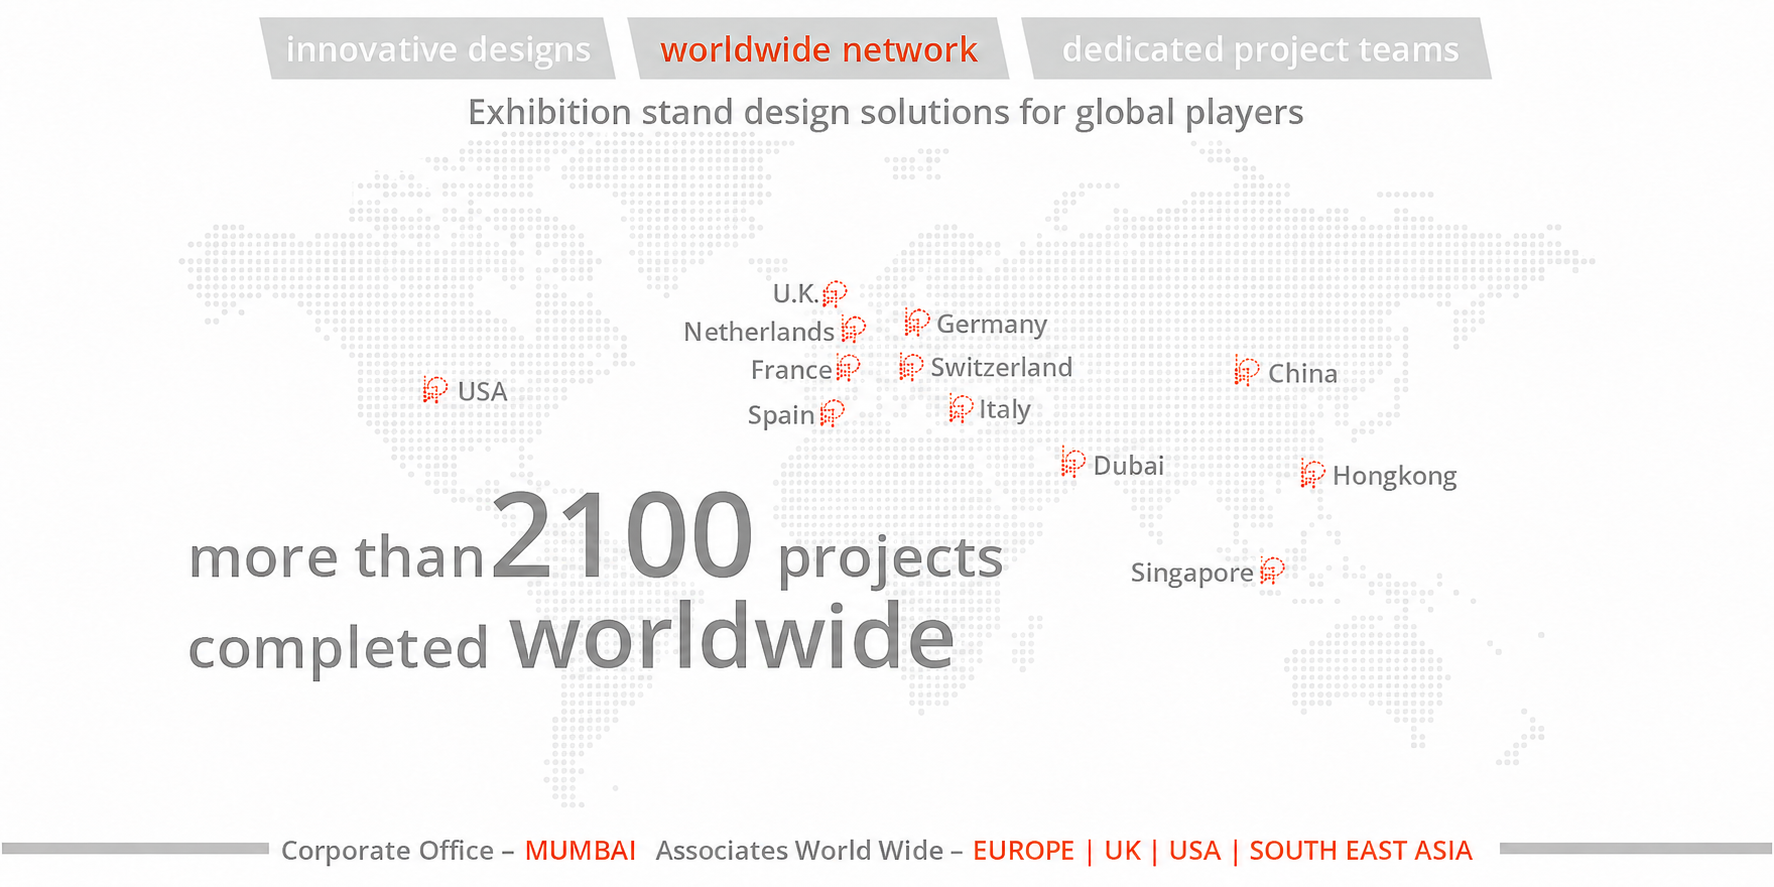
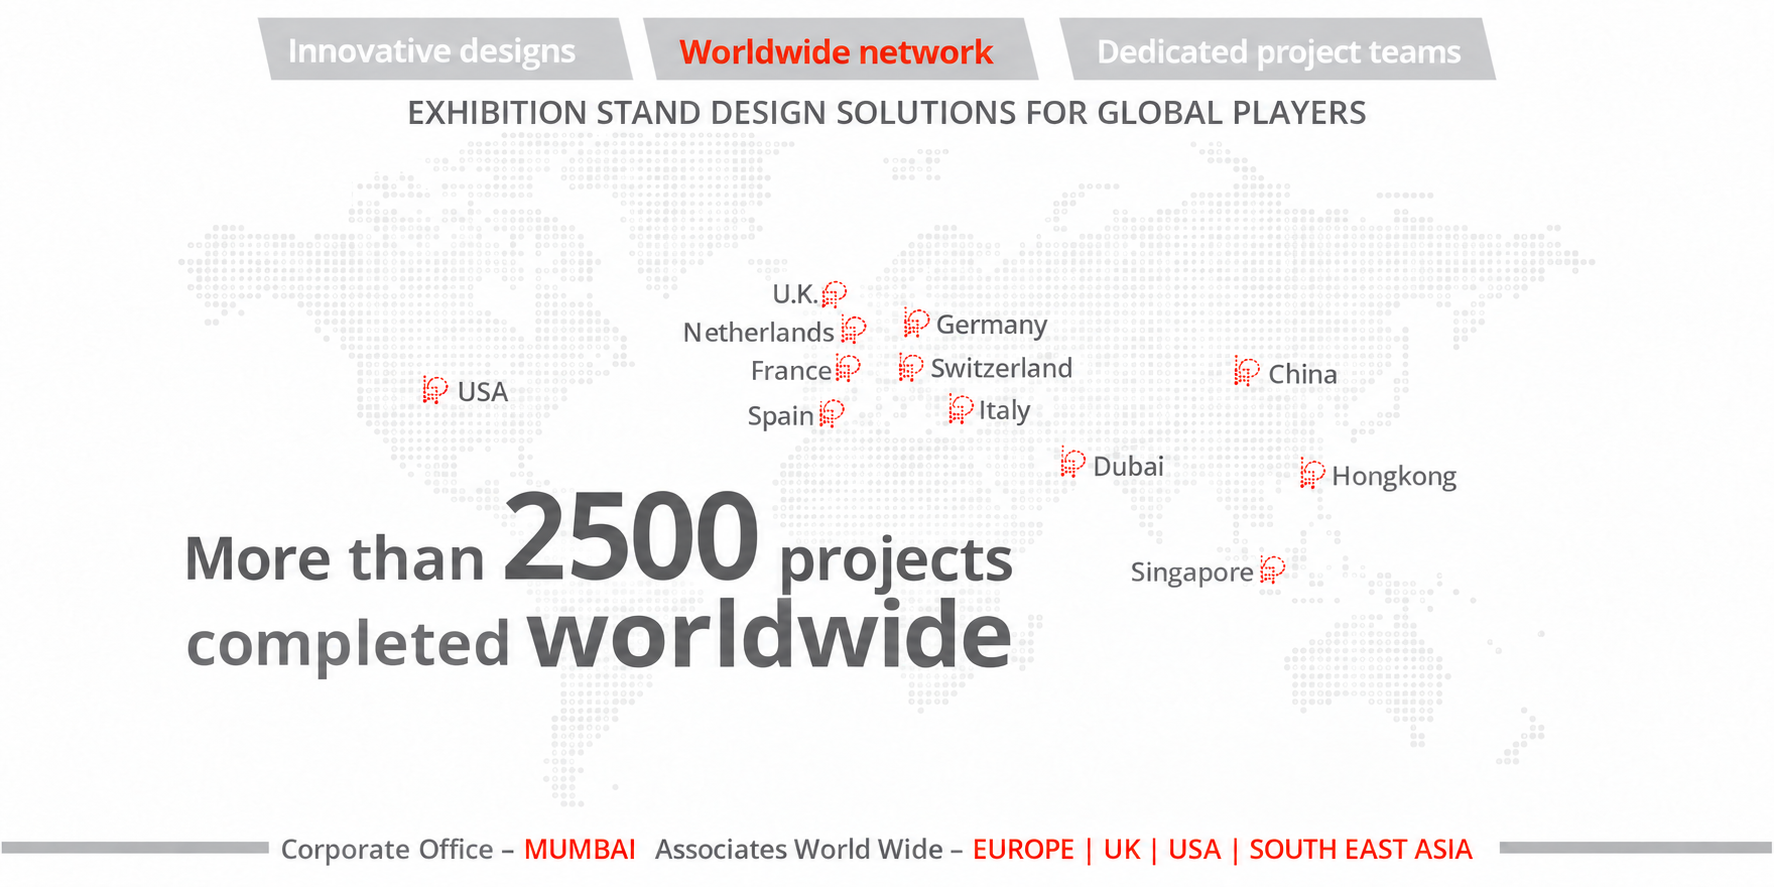
live ke baad changes

diff --git a/style.css b/style.css
@@ -2831,7 +2831,7 @@ Tags:          event, conference, marketing, business
 .lp-industry-content h3 {
   min-height: 58px;
   margin: 0;
-  color: #141414;
+  color: var(--lp-orange);
   font-size: 19px;
   font-weight: 700;
   line-height: 1.3;
@@ -5577,9 +5577,12 @@ Tags:          event, conference, marketing, business
 .lp-footprint-events h4,
 .lp-footprint-glance-content h3,
 .lp-footprint-tabs .tab-btn,
-.lp-industries-promise,
-.lp-industry-content h3 {
+.lp-industries-promise {
   color: #686b72;
+}
+
+.lp-industry-content h3 {
+  color: var(--lp-orange);
 }
 
 /* About page headings and card titles use the same gray tone. */

diff --git a/js/script.js b/js/script.js
@@ -640,8 +640,9 @@
 
 
 
-	if($('.circle-follow').length){		
-		// Mouse Circle Animation 
+	/*
+	if($('.circle-follow').length){
+		// Mouse Circle Animation disabled: using normal browser cursor.
 		var $circle = $('.circle'),
 		$follow = $('.circle-follow');
 		function moveCircle(e) {
@@ -675,6 +676,7 @@
 		$(window).on('mousemove', moveCircle);
 		$("a, .clink").hover(hoverFunc, unhoverFunc);
 	}
+	*/
 
 	// Elements Animation
 	if($('.wow').length){

diff --git a/css/master.css b/css/master.css
@@ -2462,6 +2462,7 @@ Scroll To Top style
   transition: all 400ms linear;
 }
 
+/* Custom mouse cursor disabled: using normal browser cursor.
 .circle {
   position: fixed;
   width: 10px;
@@ -2513,6 +2514,7 @@ Scroll To Top style
     display: none !important;
   }
 }
+*/
 
 /***====================================================================
   Search Popup

diff --git a/about.php b/about.php
@@ -33,8 +33,8 @@
                     <!-- <p>Exhibitions offer no second chances. There is no dress rehearsal and no opening-night retake. Since the year 2000, Link Promotions and Exhibits has built its reputation the hard way: one flawless, deadline-driven build at a time.</p>
                     <p>Whether it is a modular unit or a double-height custom pavilion, our process has proven itself consistently - from Mumbai to Frankfurt, Dubai to Barcelona, and every major exhibition hub in between.</p>
                     <p>Because design and fabrication both happen in-house, our clients benefit from fewer handoffs, fewer surprises, and one accountable partner guiding every project from the first sketch through to final teardown.</p> -->
-                    <p>Since 2000, Link Promotions and Exhibits Worldwide has been creating exhibition experiences that make brands stand out. With 21+ years of expertise, we combine innovative design, precision fabrication, and seamless execution to deliver impactful exhibition spaces that attract attention, engage audiences, and elevate brand presence.</p>
-                    <p>Every project reflects our commitment to quality, creativity, and on-time execution from concept to completion.</p>
+                    <p>Since 2000, Link Promotions and Exhibits Worldwide has been creating exhibition experiences that help brands stand out. With 21+ years of expertise, we combine innovative design, precision fabrication, and seamless execution to deliver impactful exhibition spaces that attract attention, engage audiences, and elevate brand presence.</p>
+                    <p>Every project reflects our commitment to quality, creativity, and on-time execution, from concept to completion.</p>
                     <p>Whether it is a modular unit or a double-height custom pavilion, our process has proven itself consistently from Mumbai to Frankfurt, Dubai to Barcelona, and every major exhibition hub in between.</p>
                     <p>Because design and fabrication both happen in-house, our clients benefit from fewer handoffs, fewer surprises, and one accountable partner guiding every project from the first sketch through to final teardown.</p>
                     <div class="lp-about-page-stats">
@@ -43,7 +43,7 @@
                             <span>Years in Exhibition Design &amp; Fabrication</span>
                         </div>
                         <div class="count-box">
-                            <strong><span class="count-text" data-stop="2100" data-speed="1900" data-suffix="+" data-format="comma">0</span></strong>
+                            <strong><span class="count-text" data-stop="2500" data-speed="1900" data-suffix="+" data-format="comma">0</span></strong>
                             <span>Stalls Designed and Executed</span>
                         </div>
                         <div class="count-box">
@@ -64,13 +64,13 @@
                 <div class="lp-about-story-intro">
                     <h2>We Build Your Space, You Build Your Business.</h2>
                     <figure class="lp-about-story-video">
-                        <video src="images/myimage/video/about-video.mp4" controls muted loop playsinline preload="metadata"></video>
+                        <video src="images/myimage/video/about-video.mp4" controls muted playsinline preload="metadata"></video>
                     </figure>
                 </div>
                 <div class="lp-about-story-text">
-                    <p>Every exhibition is a brief but critical window to convince the people who matter most - buyers, distributors and investors - that your brand deserves their attention. Link Promotions and Exhibits exists to make sure that moment works decisively in your favour.</p>
+                    <p>Every exhibition is a brief but critical window to convince the people who matter most - buyers, distributors, and investors - that your brand deserves their attention. Link Promotions and Exhibits exists to make sure that moment works decisively in your favour.</p>
                     <p>Link Promotions and Exhibits has designed and fabricated exhibition stalls for both B2B and B2C brands across pharmaceuticals, engineering, chemicals, FMCG, jewellery, textiles, manufacturing, construction, food and beverage, electronics, automation, renewable energy, packaging, healthcare, logistics and supply chain industries.</p>
-                    <p>What has remained constant across more than two decades is our process: we begin by understanding exactly what you need to prove at that specific show, then design backward from that objective - shaping layout, materials, lighting, signage and visitor flow around your goals, not around a template.</p>
+                    <p>What has remained constant across more than two decades is our process: we begin by understanding exactly what you need to prove at that specific show, then design backward from that objective - shaping layout, materials, lighting, signage, and visitor flow around your goals, not around a template.</p>
                 </div>
             </div>
         </div>
@@ -89,12 +89,12 @@
                 <article class="lp-about-highlight-card">
                     <i class="fa fa-flag"></i>
                     <h3>Inception</h3>
-                    <p>Millennium year 2000. With a dynamic vision to serve through custom build exhibition stands and events and launches, Link Promotions and Exhibits has built a proven record as one of the strongest players in this industry for over two decades.</p>
+                    <p>Founded in 2000, Link Promotions and Exhibits began with a dynamic vision to serve brands through custom-built exhibition stands, events, and launches. Over the past two decades, we have built a proven record as one of the strongest players in the industry.</p>
                 </article>
                 <article class="lp-about-highlight-card">
                     <i class="fa fa-pencil-ruler"></i>
                     <h3>Creation</h3>
-                    <p>An in-house design studio with a core creative team, skilled supervisors and thorough technical guidance ensures every stand is designed for greater visitor visibility and strong brand presence.</p>
+                    <p>Our in-house design studio, supported by a core creative team, skilled supervisors, and thorough technical guidance, ensures every stand is designed for greater visitor visibility and strong brand presence.</p>
                 </article>
                 <article class="lp-about-highlight-card">
                     <i class="fa fa-industry"></i>
@@ -114,7 +114,7 @@
                 <article class="lp-about-highlight-card">
                     <i class="fa fa-globe-asia"></i>
                     <h3>Cultivation</h3>
-                    <p>A cultivated team - a true amalgamation of experience and technology - works to promote clients' brands and products worldwide across trade show platforms.</p>
+                    <p>Our cultivated team - a true amalgamation of experience and technology - works to promote clients' brands and products worldwide across trade show platforms.</p>
                 </article>
             </div>
 
@@ -134,7 +134,7 @@
                 <article>
                     <span>Our Mission</span>
                     <h3>Free Clients to Focus on Growth.</h3>
-                    <p>Our mission is to empower clients with strong online and offline marketing strategies and execute them well. Whether on-ground exhibition stands or virtual experiences, our goal is to make this activity easier for clients so they can focus on their path to success.</p>
+	                    <p>Our mission is to empower clients with strong online and offline marketing strategies and execute them effectively. Whether through on-ground exhibition stands or virtual experiences, our goal is to make this process easier for clients so they can focus on their path to success.</p>
                 </article>
                 <article>
                     <span>Our Vision</span>

diff --git a/clients.php b/clients.php
@@ -4,6 +4,34 @@
 $clientLogoFiles = glob('images/myimage/client-logo/*.{jpg,jpeg,png,webp,gif,svg}', GLOB_BRACE);
 
 sort($clientLogoFiles, SORT_NATURAL | SORT_FLAG_CASE);
+
+$featuredClientOrder = [
+    '13_Adobe',
+    '14_HP',
+    '08_Swarovski_Gemstones',
+    '06_Midea',
+    '20_SANY',
+    '03_FORBES',
+    '09_DYMO',
+    '12_Titan_Laboratories',
+    '05_BARNES_Molding_Solutions',
+    '04_Bliss_GVS',
+];
+
+$featuredClientOrder = array_flip($featuredClientOrder);
+
+usort($clientLogoFiles, function ($firstLogo, $secondLogo) use ($featuredClientOrder) {
+    $firstName = pathinfo($firstLogo, PATHINFO_FILENAME);
+    $secondName = pathinfo($secondLogo, PATHINFO_FILENAME);
+    $firstRank = $featuredClientOrder[$firstName] ?? PHP_INT_MAX;
+    $secondRank = $featuredClientOrder[$secondName] ?? PHP_INT_MAX;
+
+    if ($firstRank === $secondRank) {
+        return strnatcasecmp($firstLogo, $secondLogo);
+    }
+
+    return $firstRank <=> $secondRank;
+});
 ?>
 
     <!-- Page Title -->

diff --git a/foter.php b/foter.php
@@ -72,7 +72,10 @@
                     <li>Exhibition Stand Design</li>
                     <li>Exhibition Booth Design</li>
                     <li>Mezzanine Stall Designer</li>
-                    <li>Exhibition Stall Designer Delhi</li>
+                    <li>Exhibition Stall Designer in Mumbai</li>
+                    <li>Exhibition Stall Designer in India</li>
+                    <li>Exhibition Stall Designer in Europe</li>
+                    <li>Exhibition Stall Designer in Delhi</li>
                     <li>Exhibition Stall Designer in Brazil</li>
                     <li>Exhibition Stall Designer in China</li>
                     <li>Exhibition Stall Designer in Japan</li>

diff --git a/index.php b/index.php
@@ -753,7 +753,7 @@ sort($clientLogoFiles, SORT_NATURAL | SORT_FLAG_CASE);
                                 </div>
                             </article>
 
-                            <article class="swiper-slide lp-industry-card is-featured">
+                            <article class="swiper-slide lp-industry-card">
                                 <div class="lp-industry-image">
                                     <img src="images/myimage/i2.png" alt="Industrial and engineering">
                                     <span class="lp-industry-icon"><i class="fa fa-industry"></i></span>

diff --git a/navbar.php b/navbar.php
@@ -5,9 +5,10 @@ if ($lp_current_page === '' || $lp_current_page === 'index.html') {
     $lp_current_page = 'index.php';
 }
 ?>
-    <!-- Cursor Animation -->
+    <!-- Cursor Animation disabled: using normal browser cursor.
     <div class="circle"></div>
     <div class="circle-follow"></div>
+    -->
 
     <!-- Preloader -->
     <!-- <div class="preloader"></div> -->
